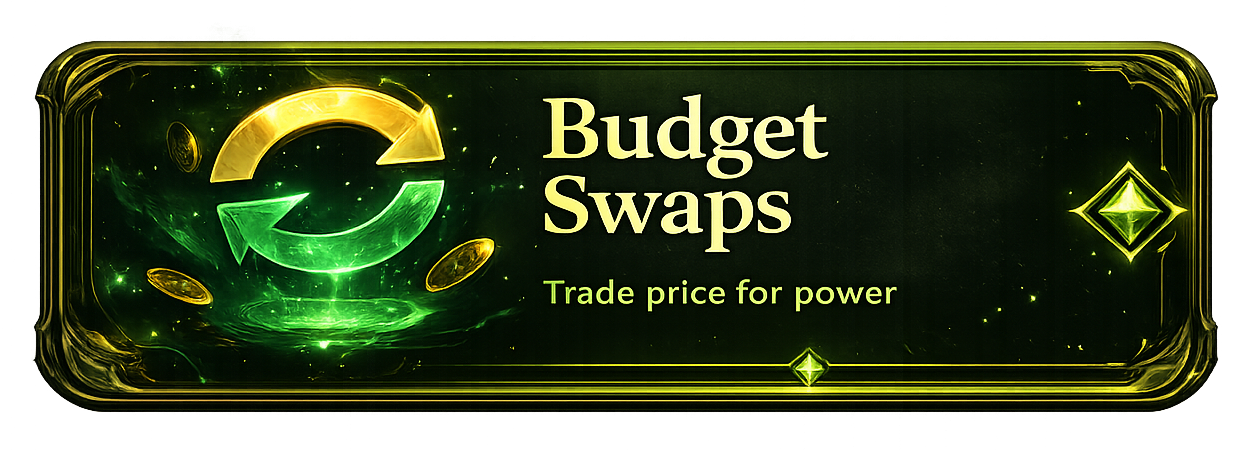
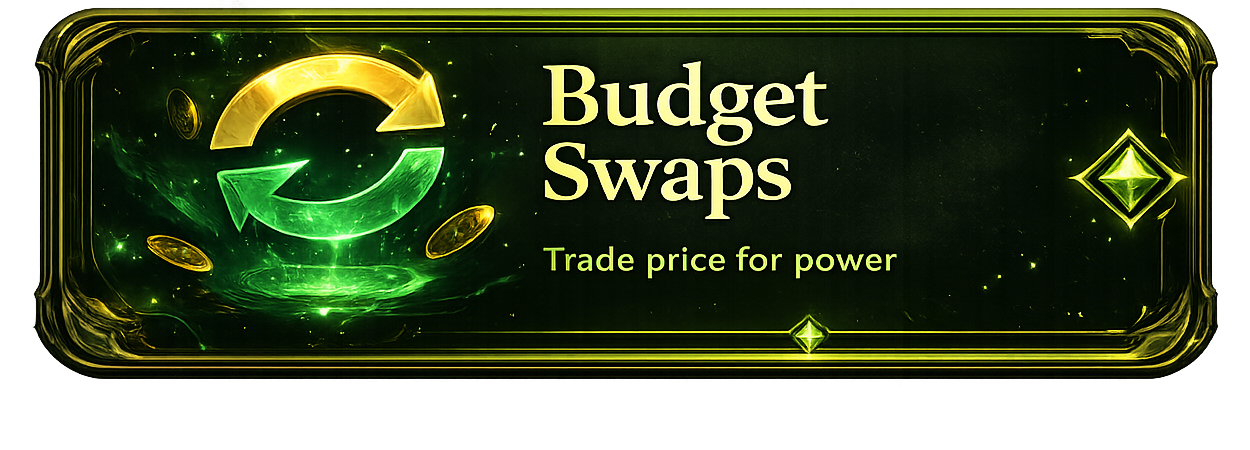
homepage artx5

diff --git a/frontend/components/TopToolsStrip.tsx b/frontend/components/TopToolsStrip.tsx
@@ -85,13 +85,13 @@ export default function TopToolsStrip() {
 
   return (
     <div className="w-full">
-      <div className="w-full flex gap-0.5 md:gap-1 mb-0 overflow-x-auto snap-x snap-mandatory scrollbar-hide opacity-95">
+      <div className="w-full grid grid-cols-5 items-start gap-0.5 md:gap-1 mb-0 overflow-hidden opacity-95">
         {tools.map((tool, idx) => (
           <a
             key={idx}
             href={tool.href}
             onClick={() => handleToolClick(tool)}
-            className="block w-[78vw] md:w-[360px] lg:w-[430px] xl:w-[480px] rounded-xl overflow-hidden snap-center flex-shrink-0 lg:transition-[transform,box-shadow] lg:duration-200 lg:hover:scale-[1.02] lg:hover:shadow-xl lg:hover:shadow-blue-500/20 lg:hover:ring-2 lg:hover:ring-blue-400/50"
+            className="block w-full aspect-[1250/450] rounded-xl overflow-hidden outline-none focus:outline-none focus-visible:outline-none"
           >
             {failedImgs.has(idx) ? (
               <div className="w-full aspect-[1250/450] flex items-center justify-center bg-neutral-800 text-neutral-500 text-sm rounded-xl">
@@ -103,7 +103,7 @@ export default function TopToolsStrip() {
                 alt={tool.alt}
                 width={1250}
                 height={450}
-                className="w-full h-auto aspect-[1250/450] object-cover"
+                className="block w-full h-full object-cover"
                 loading={idx < 2 ? "eager" : "lazy"}
                 decoding="async"
                 onError={() => setFailedImgs((s) => new Set(s).add(idx))}

diff --git a/frontend/app/page.tsx b/frontend/app/page.tsx
@@ -86,7 +86,7 @@ export default function Page() {
       <ModeOptions />
       
       <div className="w-full relative">
-        <div className="max-w-[1600px] mx-auto px-4 -mt-2">
+        <div className="max-w-[1600px] mx-auto px-4 -mt-4">
           <TopToolsStrip />
         </div>
         <div className="max-w-[1600px] mx-auto px-4 pt-0">

diff --git a/frontend/components/LivePresenceBanner.tsx b/frontend/components/LivePresenceBanner.tsx
@@ -50,7 +50,7 @@ export default function LivePresenceBanner() {
   const hasActivity = currentActivity?.message;
 
   return (
-    <div className="w-full mb-3">
+    <div className="w-full mb-1">
       <div className="relative bg-neutral-900/50 border border-neutral-800/50 rounded-lg overflow-hidden transition-all duration-300">
         {expanded ? (
           <div className="flex items-center justify-between gap-4 py-3 text-sm">